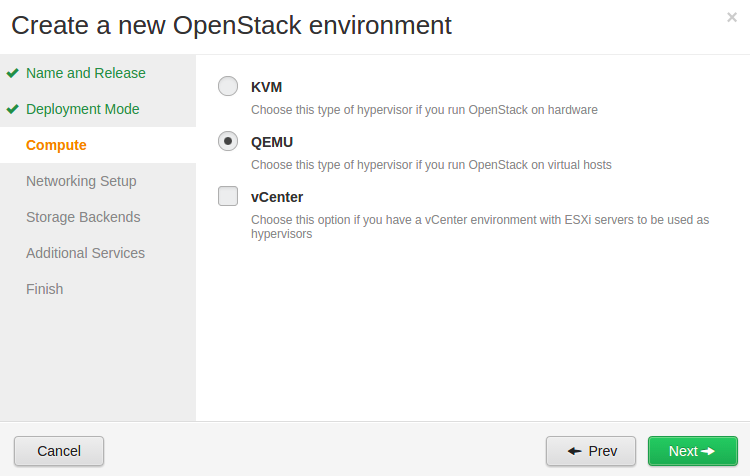
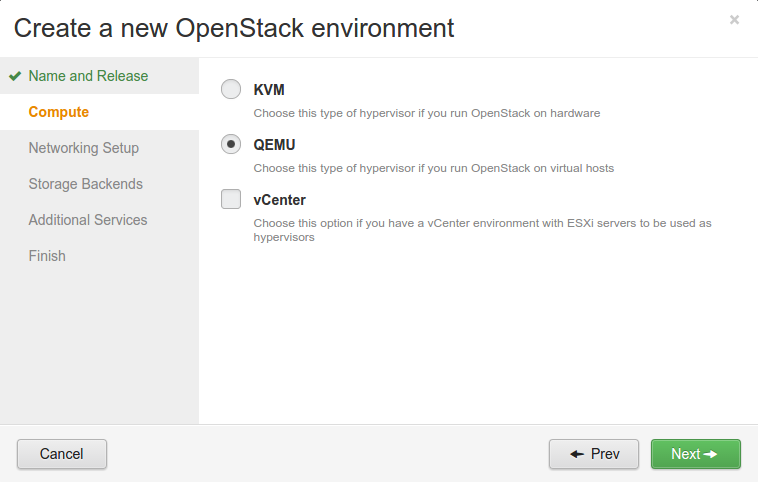
[User guide] Update screenshots
Replaces old screenshots with new 6.1 ones.
Adds text for create an account and retrieve password screenshots.
Adds text for Storage backend screenshot.
Also adds minor edits.

Closes-Bug: #1470073

diff --git a/pages/user-guide/create-environment/3500-cinder-glance-backend.rst b/pages/user-guide/create-environment/3500-cinder-glance-backend.rst
@@ -6,33 +6,13 @@
 .. _cinder-glance-backend-ug:
 
 Storage backend for Cinder and Glance
-----------------------------------------
+-------------------------------------
 
-.. image:: /_images/user_screen_shots/cinder-storage-backend.png
+.. image:: /_images/user_screen_shots/storage-backend.png
    :width: 50%
 
-Select the storage backend for :ref:`cinder-term`:
-
-- If you select "Default" here,
-  then the Local Volumes over iSCSI are used as the backend for Cinder.
-  You must configure at least one node with the "cinder" role
-  on the :ref:`assign-roles-ug` screen.
-  Disk space for Cinder will be allocated automatically.
-- If you select "Ceph",
-  you must assign at least two nodes as Ceph-OSD nodes
-  on the :ref:`assign-roles-ug` screen.
-
-Select the storage backend for :ref:`glance-term`:
-
-- If you select "Default" and are using the Multi-node HA mode,
-  Swift is used as a backend for Cinder
-  and is automatically installed on the Controller nodes.
-- If you select "Default" and are using the Multi-node (no HA) mode,
-  local storage is used as the backend for Glance.
-- If you select Ceph,
-  you must assign the Ceph-OSD role on at least two nodes
-  on the :ref:`assign-roles-ug` screen.
-
+The default providers are LVM for Cinder, local device for Swift, and
+Swift for Glance. Note that Glance supports only HA mode now.
 
 You can later change these settings
 on the :ref:`settings-storage-ug` screen,

diff --git a/pages/user-guide/create-environment/1100-statistics.rst b/pages/user-guide/create-environment/1100-statistics.rst
@@ -8,7 +8,7 @@ Use this screen to define the statistics
 that are sent to Mirantis about your environment:
 
 .. image:: /_images/user_screen_shots/statistics-opt-in.png
-   :width: 70%
+   :width: 60%
 
 You have the following options:
 
@@ -23,13 +23,18 @@ You have the following options:
 - **Identify my error reports** authorizes Mirantis
   to associate error reports generated for your environment
   so that Mirantis Support staff can assist you.
-  When you click on this box,
-  the screen expands so you can enter the contact information
-  that Support can use:
-
-.. image:: /_images/user_screen_shots/statistics-name.png
-   :width: 70%
 
 .. note:: The Community version of Mirantis OpenStack
           has a different version of this screen
           that does not include the "Identify my error reports" section.
+
+If you don not have a Mirantis account yet, click **Create Account** and
+enter the contact information that Mirantis Support can use.
+
+.. image:: /_images/user_screen_shots/statistics-create-account.png
+   :width: 50%
+
+If you do not remember your password, click **Retrieve Password**.
+
+.. image:: /_images/user_screen_shots/statistics-retrieve-password.png
+   :width: 50%

diff --git a/pages/user-guide/config-environment/1000-assign-roles.rst b/pages/user-guide/config-environment/1000-assign-roles.rst
@@ -17,12 +17,7 @@ and a list of unallocated nodes at the bottom.
 
 .. image:: /_images/user_screen_shots/assign-roles1.png
 
-
-.. image:: /_images/user_screen_shots/assign-roles2.png
-
-
-
-To assign roles to the nodes:
+| To assign roles to the nodes:
 
 - Select the role or roles you want to assign;
   roles that cannot be assigned are indicated.
@@ -35,6 +30,8 @@ Fuel displays an icon
 (a gold triangle with an exclamation point)
 next to roles that are not allowed.
 It also tells you about other environment settings that are required.
+
+.. image:: /_images/user_screen_shots/assign-roles2.png
 
 If you want to modify the roles assigned to a node:
 

diff --git a/pages/user-guide/config-environment/settings/4000-settings-storage.rst b/pages/user-guide/config-environment/settings/4000-settings-storage.rst
@@ -15,7 +15,7 @@ You can use this screen to modify the choices made
 for :ref:`persistent storage<persistent-storage-term>`
 on the :ref:`cinder-glance-backend-ug` screen.
 You can also select Ceph RBD storage
-for :ref:ephemeral volumes<ephemeral-storage-term>
+for :ref:`ephemeral volumes<ephemeral-storage-term>`
 on this screen.
 
 Be sure that you have assigned the appropriate roles

diff --git a/pages/user-guide/create-environment/1500-name-distro.rst b/pages/user-guide/create-environment/1500-name-distro.rst
@@ -15,8 +15,8 @@ and select the Linux distribution from the drop-down list:
 
 ::
 
-    Juno on Ubuntu 14.04.4 (2014.2.2-6.1)
-    Juno on CentOS 6.5 (2014.2-6.0)
+    Juno on Ubuntu 14.04.1 (2014.2-6.1)(default)
+    Juno on CentOS 6.5 (2014.2.2-6.1)
 
 This is the operating system that will be installed
 on the target nodes in the environment.
